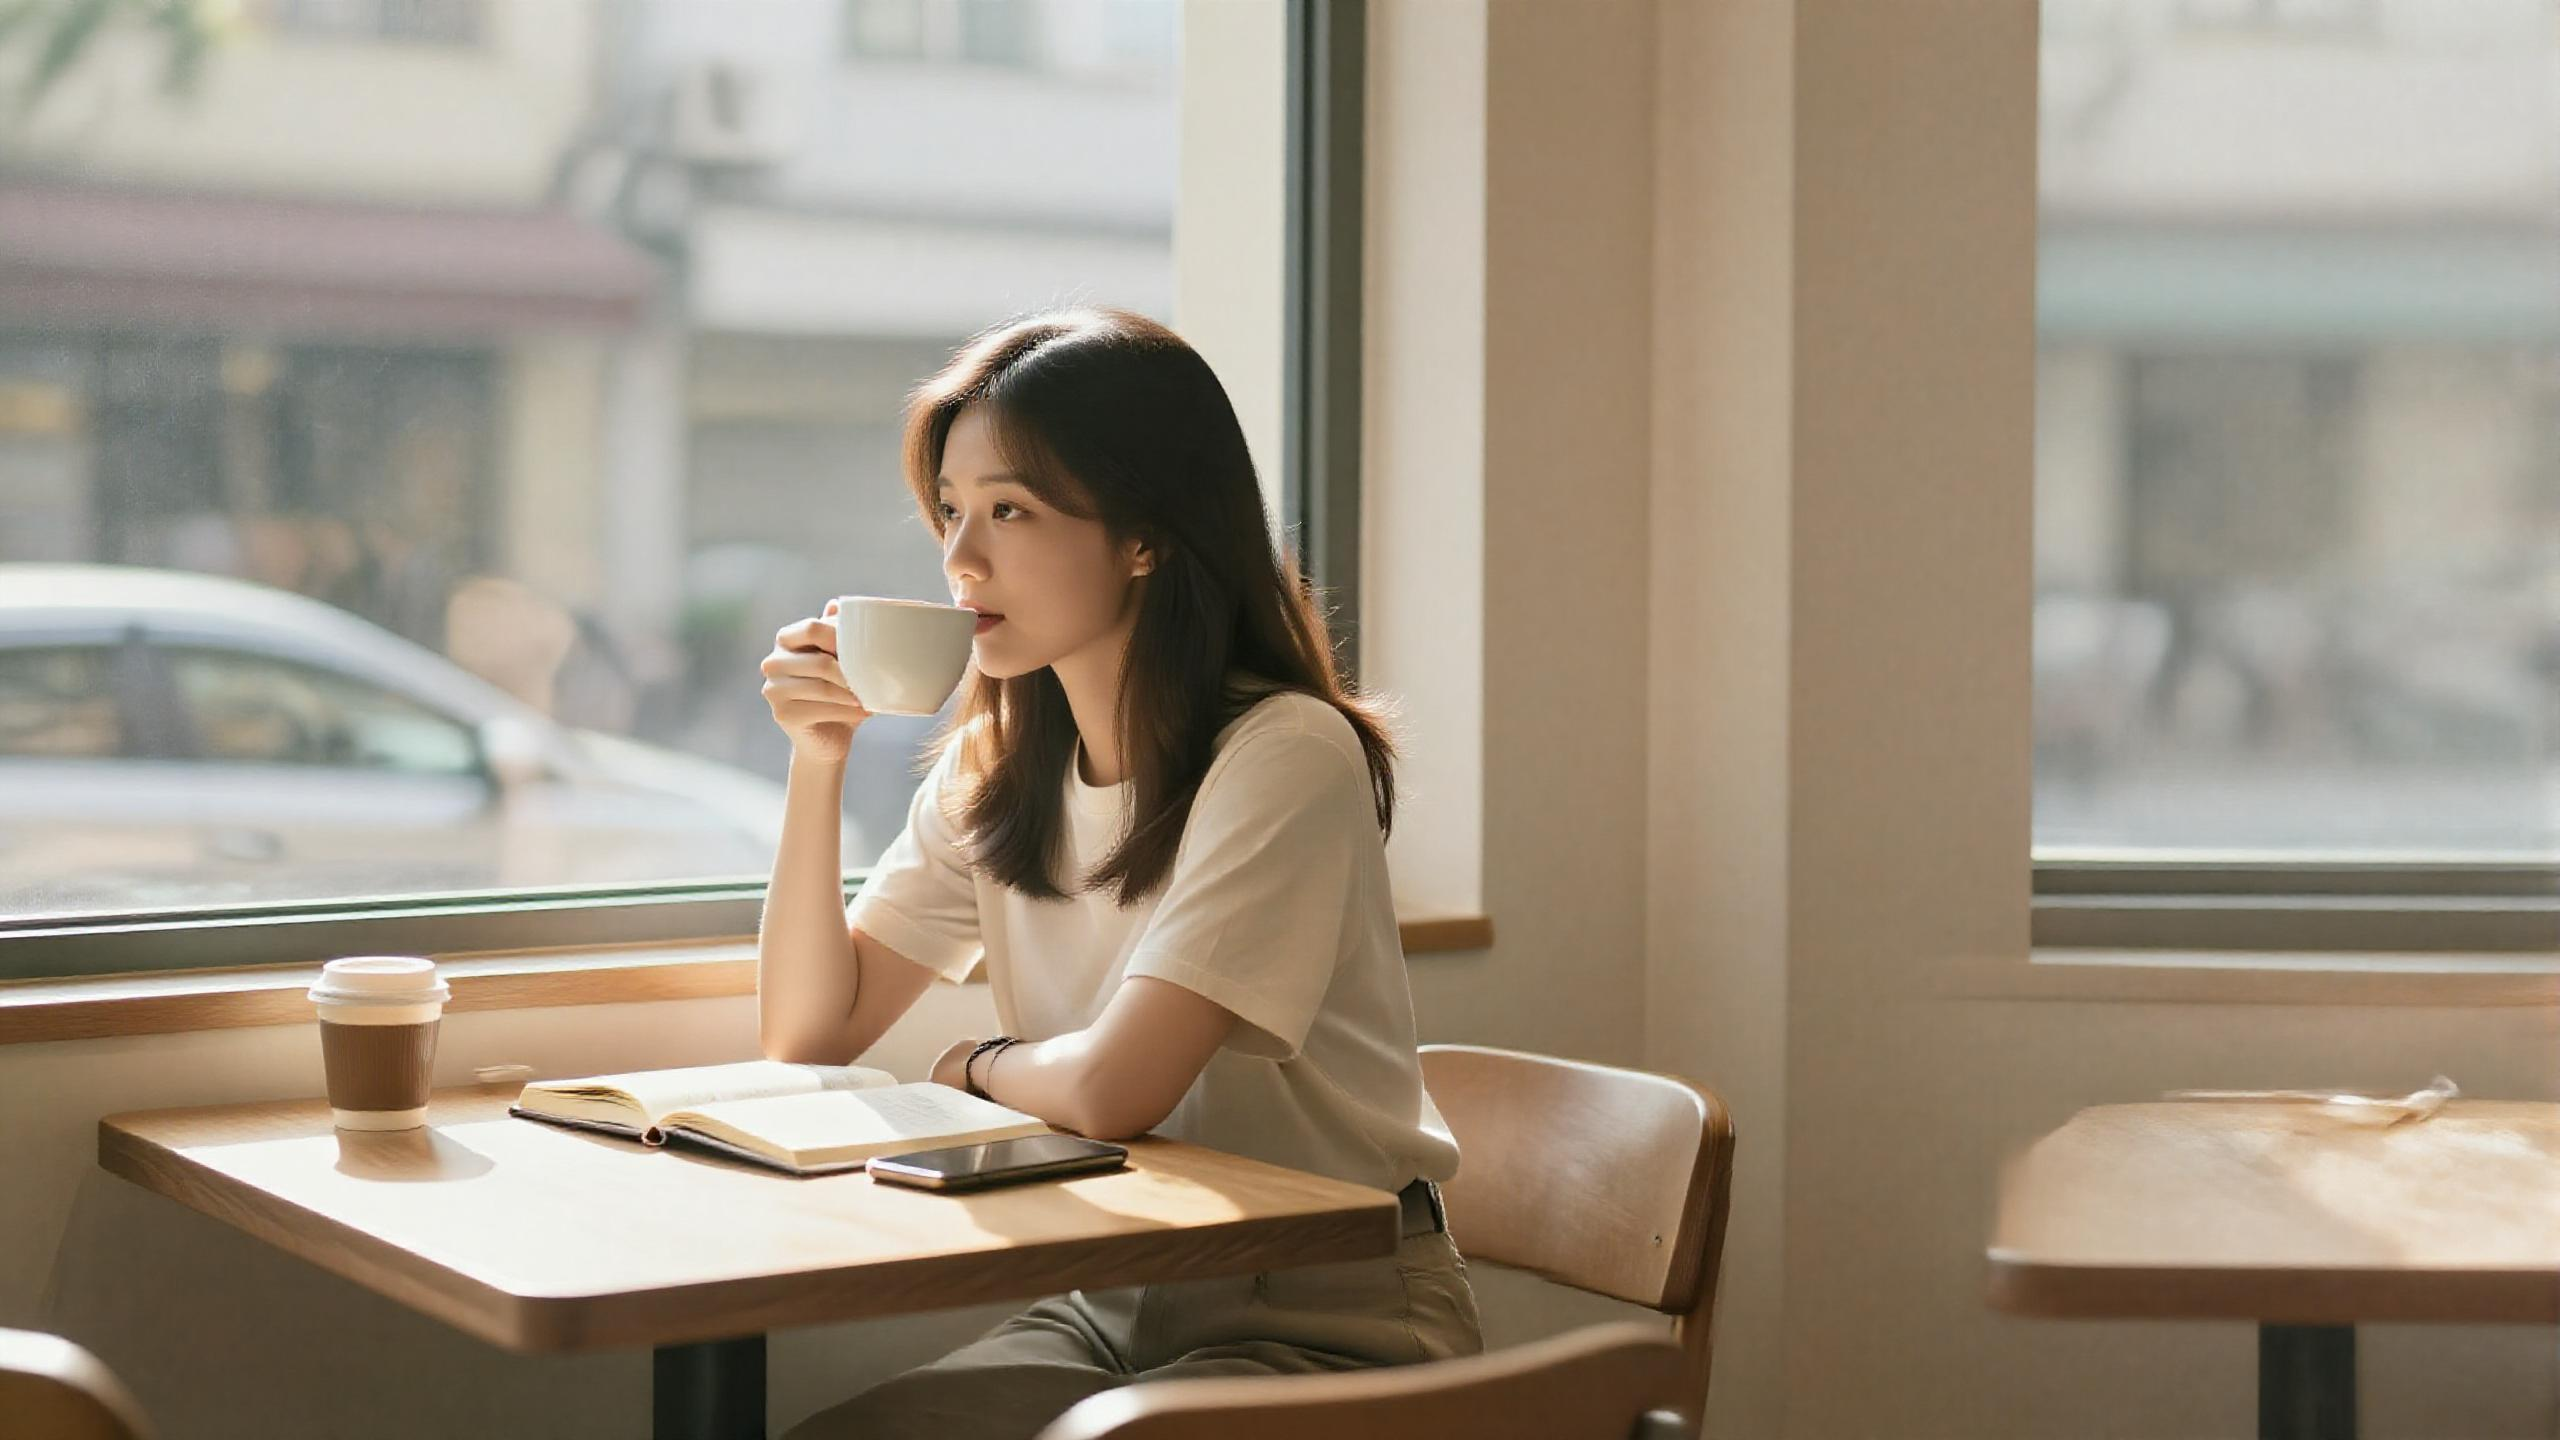
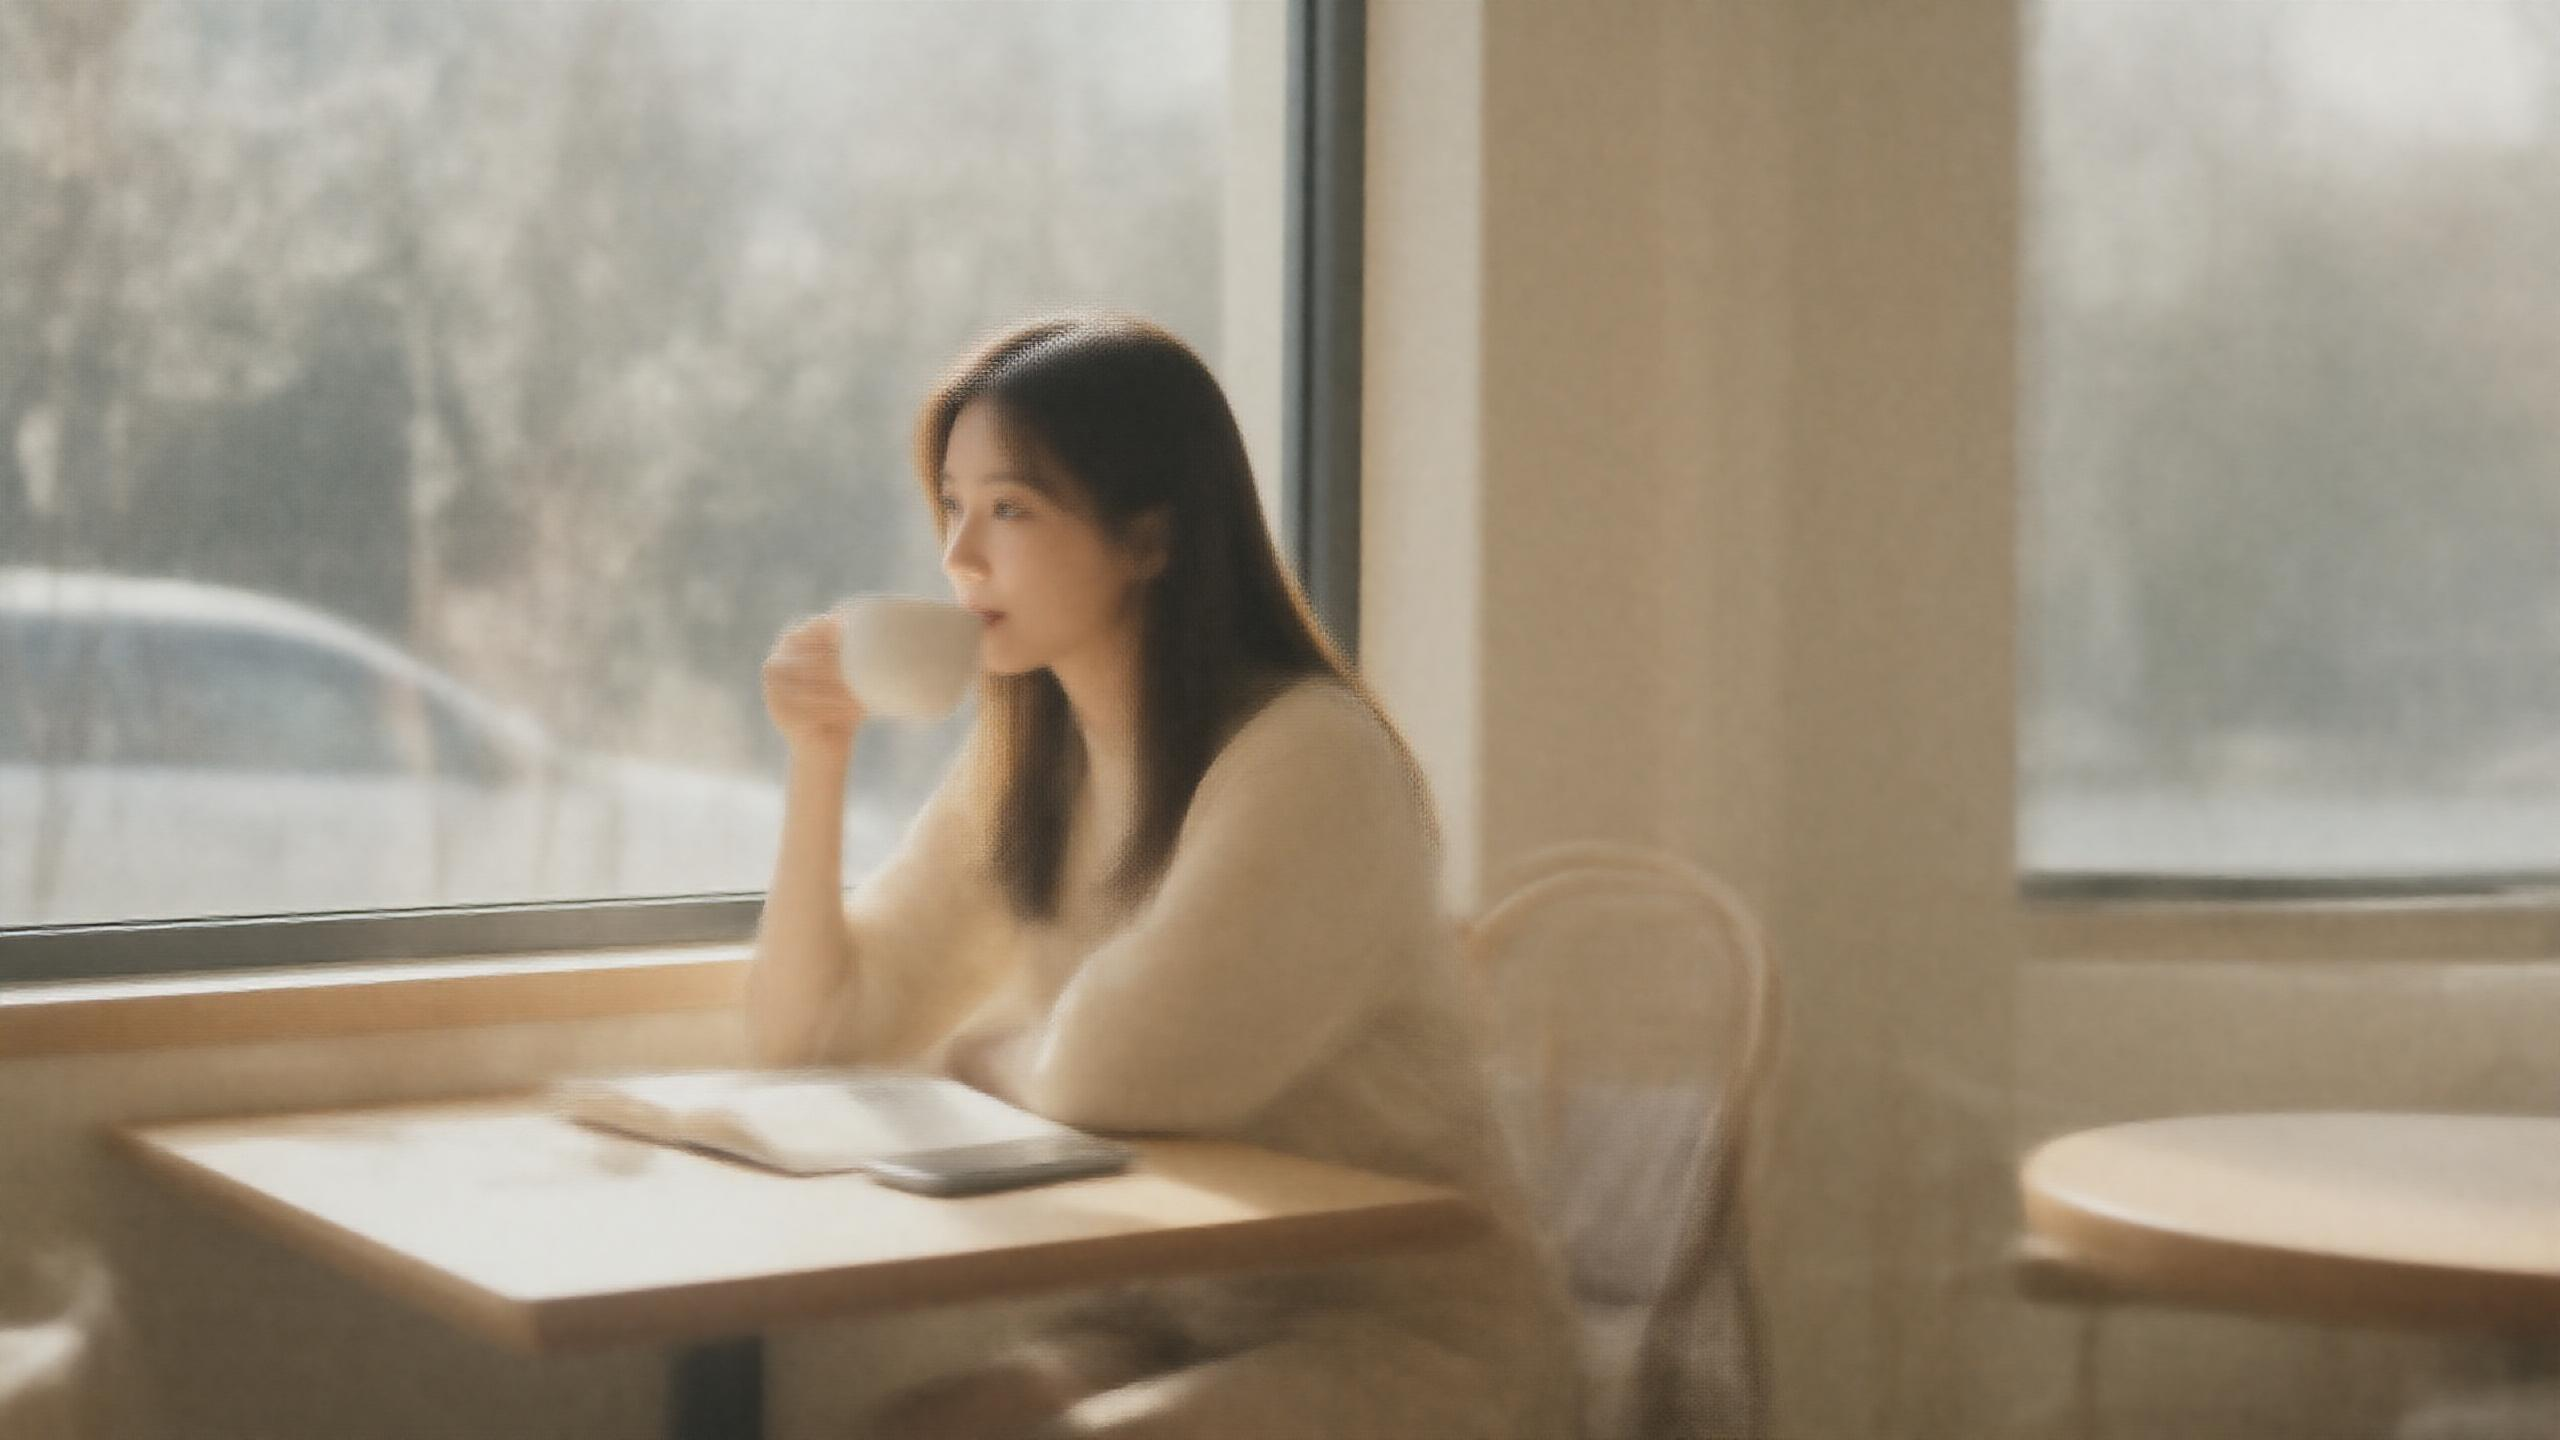
v11.2.27 A9 桌上咖啡杯移除（img2img v2 採用）

diff --git a/new_pancadai/v11/product.html b/new_pancadai/v11/product.html
@@ -79,7 +79,7 @@
 }
 </script>
 <link rel="canonical" href="https://pancad.ai/product.html">
-<link rel="stylesheet" href="css/style.css?v=55">
+<link rel="stylesheet" href="css/style.css?v=56">
 </head>
 <body>
 <div class="sun-sky" aria-hidden="true"></div>
@@ -140,7 +140,7 @@
   </div></div>
 </header>
 
-<!-- 產品總覽（v11.2.26 強化） -->
+<!-- 產品總覽（v11.2.27 強化） -->
 <section class="section">
   <div class="wrap">
     <div class="sec-head center reveal">
@@ -303,9 +303,9 @@
   </div>
 </footer>
 
-<script src="js/i18n.js?v=55"></script>
-<script src="js/i18n-common.js?v=55"></script>
-<script src="js/i18n-product.js?v=55"></script>
-<script src="js/main.js?v=55"></script>
+<script src="js/i18n.js?v=56"></script>
+<script src="js/i18n-common.js?v=56"></script>
+<script src="js/i18n-product.js?v=56"></script>
+<script src="js/main.js?v=56"></script>
 </body>
 </html>

diff --git a/new_pancadai/v11/publications.html b/new_pancadai/v11/publications.html
@@ -114,7 +114,7 @@
  ]
 }
 </script>
-<link rel="stylesheet" href="css/style.css?v=55">
+<link rel="stylesheet" href="css/style.css?v=56">
 </head>
 <body>
 <div class="scroll-progress" id="scrollProgress"></div>
@@ -320,9 +320,9 @@
   </div>
 </footer>
 
-<script src="js/i18n.js?v=55"></script>
-<script src="js/i18n-common.js?v=55"></script>
-<script src="js/i18n-publications.js?v=55"></script>
-<script src="js/main.js?v=55"></script>
+<script src="js/i18n.js?v=56"></script>
+<script src="js/i18n-common.js?v=56"></script>
+<script src="js/i18n-publications.js?v=56"></script>
+<script src="js/main.js?v=56"></script>
 </body>
 </html>

diff --git a/new_pancadai/v11/clinician.html b/new_pancadai/v11/clinician.html
@@ -101,7 +101,7 @@
  ]
 }
 </script>
-<link rel="stylesheet" href="css/style.css?v=55">
+<link rel="stylesheet" href="css/style.css?v=56">
 </head>
 <body>
 <div class="scroll-progress" id="scrollProgress"></div>
@@ -321,9 +321,9 @@
   </div>
 </footer>
 
-<script src="js/i18n.js?v=55"></script>
-<script src="js/i18n-common.js?v=55"></script>
-<script src="js/i18n-clinician.js?v=55"></script>
-<script src="js/main.js?v=55"></script>
+<script src="js/i18n.js?v=56"></script>
+<script src="js/i18n-common.js?v=56"></script>
+<script src="js/i18n-clinician.js?v=56"></script>
+<script src="js/main.js?v=56"></script>
 </body>
 </html>

diff --git a/new_pancadai/v11/education.html b/new_pancadai/v11/education.html
@@ -140,7 +140,7 @@
  ]
 }
 </script>
-<link rel="stylesheet" href="css/style.css?v=55">
+<link rel="stylesheet" href="css/style.css?v=56">
 </head>
 <body>
 <div class="scroll-progress" id="scrollProgress"></div>
@@ -311,9 +311,9 @@
   </div>
 </footer>
 
-<script src="js/i18n.js?v=55"></script>
-<script src="js/i18n-common.js?v=55"></script>
-<script src="js/i18n-education.js?v=55"></script>
-<script src="js/main.js?v=55"></script>
+<script src="js/i18n.js?v=56"></script>
+<script src="js/i18n-common.js?v=56"></script>
+<script src="js/i18n-education.js?v=56"></script>
+<script src="js/main.js?v=56"></script>
 </body>
 </html>

diff --git a/new_pancadai/v11/screening.html b/new_pancadai/v11/screening.html
@@ -84,7 +84,7 @@
  ]
 }
 </script>
-<link rel="stylesheet" href="css/style.css?v=55">
+<link rel="stylesheet" href="css/style.css?v=56">
 </head>
 <body>
 <div class="scroll-progress" id="scrollProgress"></div>
@@ -253,9 +253,9 @@
   </div>
 </footer>
 
-<script src="js/i18n.js?v=55"></script>
-<script src="js/i18n-common.js?v=55"></script>
-<script src="js/i18n-screening.js?v=55"></script>
-<script src="js/main.js?v=55"></script>
+<script src="js/i18n.js?v=56"></script>
+<script src="js/i18n-common.js?v=56"></script>
+<script src="js/i18n-screening.js?v=56"></script>
+<script src="js/main.js?v=56"></script>
 </body>
 </html>

diff --git a/new_pancadai/v11/contact.html b/new_pancadai/v11/contact.html
@@ -84,7 +84,7 @@
  ]
 }
 </script>
-<link rel="stylesheet" href="css/style.css?v=55">
+<link rel="stylesheet" href="css/style.css?v=56">
 </head>
 <body>
 <div class="scroll-progress" id="scrollProgress"></div>
@@ -300,9 +300,9 @@
   });
 })();
 </script>
-<script src="js/i18n.js?v=55"></script>
-<script src="js/i18n-common.js?v=55"></script>
-<script src="js/i18n-contact.js?v=55"></script>
-<script src="js/main.js?v=55"></script>
+<script src="js/i18n.js?v=56"></script>
+<script src="js/i18n-common.js?v=56"></script>
+<script src="js/i18n-contact.js?v=56"></script>
+<script src="js/main.js?v=56"></script>
 </body>
 </html>

diff --git a/new_pancadai/v11/patient.html b/new_pancadai/v11/patient.html
@@ -84,7 +84,7 @@
  ]
 }
 </script>
-<link rel="stylesheet" href="css/style.css?v=55">
+<link rel="stylesheet" href="css/style.css?v=56">
 </head>
 <body>
 <div class="scroll-progress" id="scrollProgress"></div>
@@ -359,9 +359,9 @@
   </div>
 </footer>
 
-<script src="js/i18n.js?v=55"></script>
-<script src="js/i18n-common.js?v=55"></script>
-<script src="js/i18n-patient.js?v=55"></script>
-<script src="js/main.js?v=55"></script>
+<script src="js/i18n.js?v=56"></script>
+<script src="js/i18n-common.js?v=56"></script>
+<script src="js/i18n-patient.js?v=56"></script>
+<script src="js/main.js?v=56"></script>
 </body>
 </html>

diff --git a/new_pancadai/v11/about.html b/new_pancadai/v11/about.html
@@ -84,7 +84,7 @@
  ]
 }
 </script>
-<link rel="stylesheet" href="css/style.css?v=55">
+<link rel="stylesheet" href="css/style.css?v=56">
 </head>
 <body>
 <div class="scroll-progress" id="scrollProgress"></div>
@@ -253,9 +253,9 @@
   </div>
 </footer>
 
-<script src="js/i18n.js?v=55"></script>
-<script src="js/i18n-common.js?v=55"></script>
-<script src="js/i18n-about.js?v=55"></script>
-<script src="js/main.js?v=55"></script>
+<script src="js/i18n.js?v=56"></script>
+<script src="js/i18n-common.js?v=56"></script>
+<script src="js/i18n-about.js?v=56"></script>
+<script src="js/main.js?v=56"></script>
 </body>
 </html>

diff --git a/new_pancadai/v11/news.html b/new_pancadai/v11/news.html
@@ -84,7 +84,7 @@
  ]
 }
 </script>
-<link rel="stylesheet" href="css/style.css?v=55">
+<link rel="stylesheet" href="css/style.css?v=56">
 </head>
 <body>
 <div class="scroll-progress" id="scrollProgress"></div>
@@ -191,9 +191,9 @@
   </div>
 </footer>
 
-<script src="js/i18n.js?v=55"></script>
-<script src="js/i18n-common.js?v=55"></script>
-<script src="js/i18n-news.js?v=55"></script>
-<script src="js/main.js?v=55"></script>
+<script src="js/i18n.js?v=56"></script>
+<script src="js/i18n-common.js?v=56"></script>
+<script src="js/i18n-news.js?v=56"></script>
+<script src="js/main.js?v=56"></script>
 </body>
 </html>

diff --git a/new_pancadai/v11/ip.html b/new_pancadai/v11/ip.html
@@ -84,7 +84,7 @@
  ]
 }
 </script>
-<link rel="stylesheet" href="css/style.css?v=55">
+<link rel="stylesheet" href="css/style.css?v=56">
 </head>
 <body>
 <div class="scroll-progress" id="scrollProgress"></div>
@@ -202,9 +202,9 @@
   </div>
 </footer>
 
-<script src="js/i18n.js?v=55"></script>
-<script src="js/i18n-common.js?v=55"></script>
-<script src="js/i18n-ip.js?v=55"></script>
-<script src="js/main.js?v=55"></script>
+<script src="js/i18n.js?v=56"></script>
+<script src="js/i18n-common.js?v=56"></script>
+<script src="js/i18n-ip.js?v=56"></script>
+<script src="js/main.js?v=56"></script>
 </body>
 </html>

diff --git a/new_pancadai/v11/index.html b/new_pancadai/v11/index.html
@@ -126,7 +126,7 @@
  ]
 }
 </script>
-<link rel="stylesheet" href="css/style.css?v=55">
+<link rel="stylesheet" href="css/style.css?v=56">
 </head>
 <body>
 
@@ -600,9 +600,9 @@
   </div>
 </footer>
 
-<script src="js/i18n.js?v=55"></script>
-<script src="js/i18n-common.js?v=55"></script>
-<script src="js/i18n-index.js?v=55"></script>
-<script src="js/main.js?v=55"></script>
+<script src="js/i18n.js?v=56"></script>
+<script src="js/i18n-common.js?v=56"></script>
+<script src="js/i18n-index.js?v=56"></script>
+<script src="js/main.js?v=56"></script>
 </body>
 </html>
